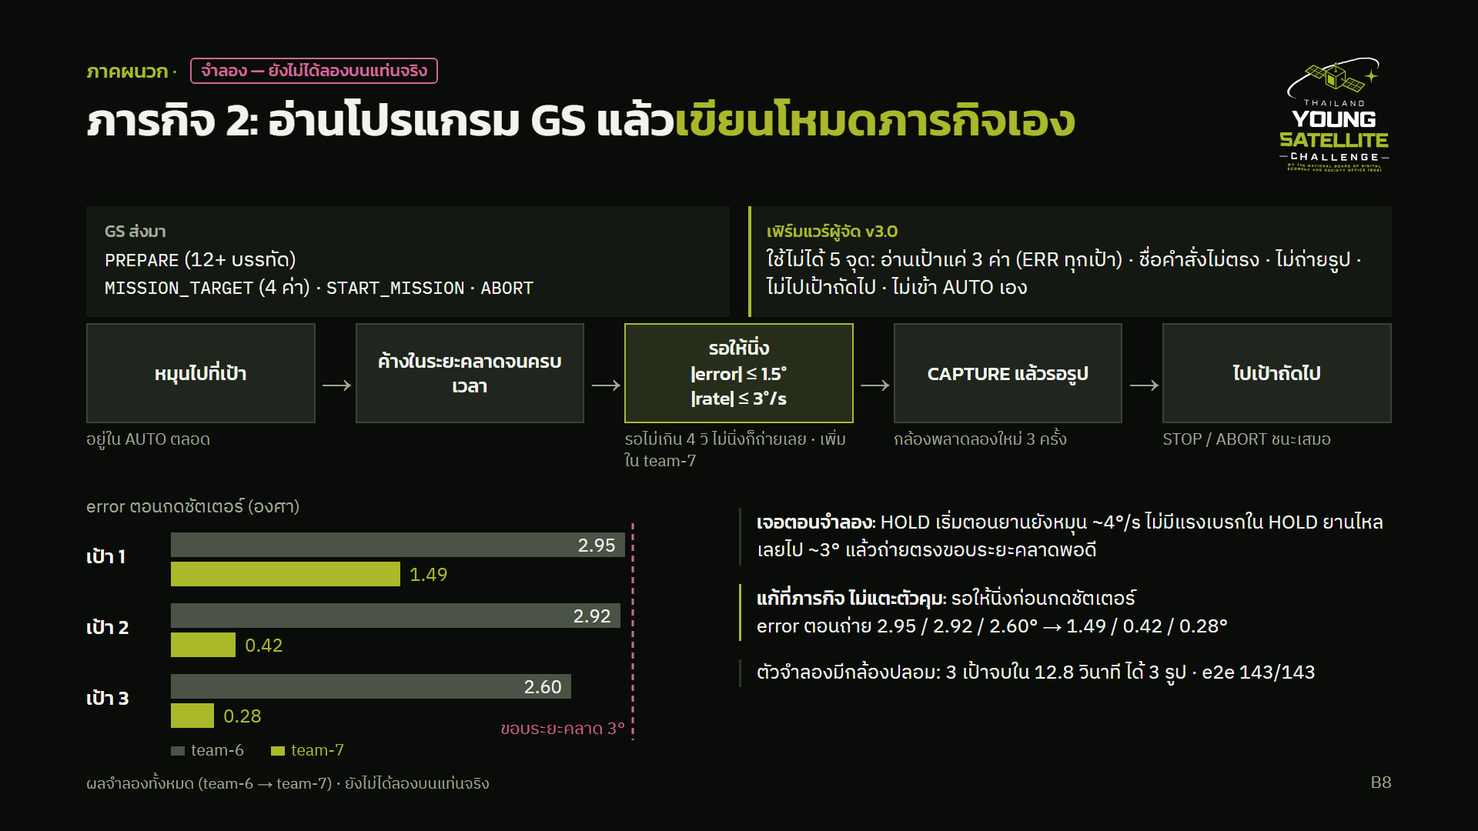
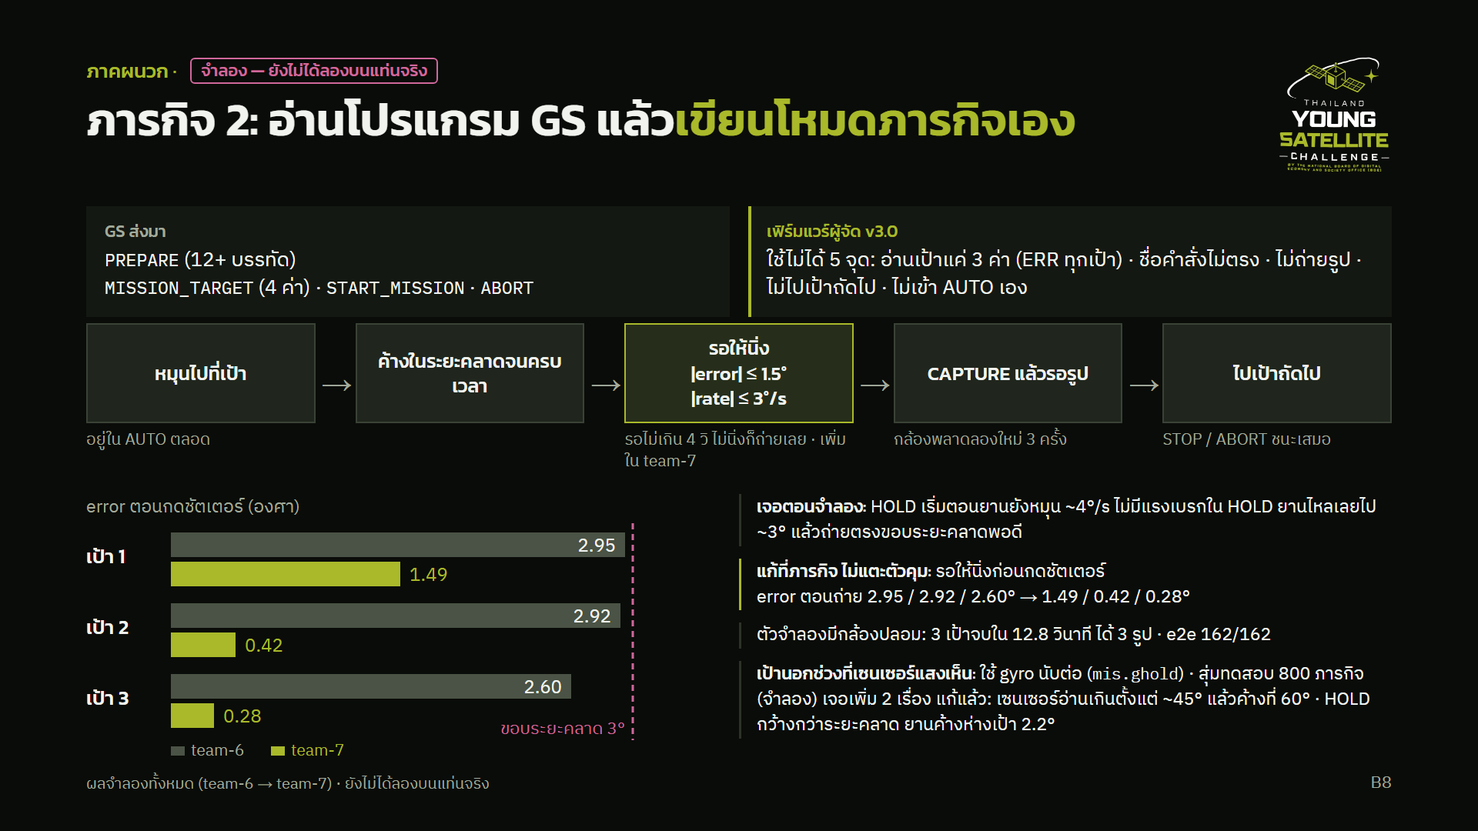
Deck: p4 physics phase 2 corrected (constant wheel speed = body keeps turning, friction slows it on the rig), formula note, p5 e2e 162, B8 adds ghold + 800-mission fuzz line

Changed region(s): [[0.5, 0.5806, 0.9375, 0.8861]]

diff --git a/SunSeek/presentation/deck/physics.html b/SunSeek/presentation/deck/physics.html
@@ -14,8 +14,8 @@
     <div class="eyebrow">ฟิสิกส์ที่ใช้</div>
     <h2>ล้อเร่งไปทางหนึ่ง ยาน<em>หมุนสวนไปอีกทาง</em></h2>
   </div>
-  <div class="eq"><div class="f">I<sub>ยาน</sub> · ω<sub>ยาน</sub> + I<sub>ล้อ</sub> · ω<sub>ล้อ</sub> = ค่าคงที่</div><div class="why">โมเมนตัมเชิงมุมรวมคงที่ ยานเริ่มจากนิ่ง ผลรวมจึงเป็น 0</div></div>
-<svg class="svgfig" style="top:300px" width="1696" height="548" viewBox="0 0 1696 548"><defs><marker id="aL" viewBox="0 0 10 10" refX="5" refY="5" markerWidth="3.6" markerHeight="3.6" orient="auto"><path d="M0,0L10,5L0,10z" fill="#A9B92A"/></marker><marker id="aB" viewBox="0 0 10 10" refX="5" refY="5" markerWidth="3.6" markerHeight="3.6" orient="auto"><path d="M0,0L10,5L0,10z" fill="#4F8FE8"/></marker></defs><g transform="translate(0,0)"><text class="k" x="270" y="32" text-anchor="middle" font-size="34"><tspan fill="#A9B92A">1</tspan>  ล้อเร่งขึ้น</text><g transform="translate(270,138)"><rect x="-75" y="-75" width="150" height="150" fill="none" stroke="#3A4236" stroke-width="2" stroke-dasharray="7 6"/><g transform="rotate(-14)"><rect x="-75" y="-75" width="150" height="150" fill="#20261D" stroke="#4A5345" stroke-width="3"/><rect x="-28" y="-83" width="56" height="12" rx="2" fill="#F1F3EE"/><circle r="42" fill="#141812" stroke="#A9B92A" stroke-width="3"/></g><text class="k" x="0" y="9" text-anchor="middle" font-size="26" style="fill:#A9B92A">ล้อ</text><path d="M21.2,-58.3A62,62 0 1 1 -61.1,10.8" fill="none" stroke="#A9B92A" stroke-width="8" marker-end="url(#aL)"/><path d="M97.7,76.3A124,124 0 0 0 97.7,-76.3" fill="none" stroke="#4F8FE8" stroke-width="8" marker-end="url(#aB)"/><text class="k" x="146" y="9" font-size="26" style="fill:#4F8FE8">ยาน</text></g><text x="270" y="284" text-anchor="middle" font-size="26">ยานหมุนสวนทิศล้อ</text></g><g transform="translate(578,0)"><text class="k" x="270" y="32" text-anchor="middle" font-size="34"><tspan fill="#A9B92A">2</tspan>  ล้อหมุนคงที่</text><g transform="translate(270,138)"><rect x="-75" y="-75" width="150" height="150" fill="none" stroke="#3A4236" stroke-width="2" stroke-dasharray="7 6"/><g transform="rotate(-28)"><rect x="-75" y="-75" width="150" height="150" fill="#20261D" stroke="#4A5345" stroke-width="3"/><rect x="-28" y="-83" width="56" height="12" rx="2" fill="#F1F3EE"/><circle r="42" fill="#141812" stroke="#A9B92A" stroke-width="3"/></g><text class="k" x="0" y="9" text-anchor="middle" font-size="26" style="fill:#A9B92A">ล้อ</text><path d="M21.2,-58.3A62,62 0 1 1 -61.1,10.8" fill="none" stroke="#A9B92A" stroke-width="4" marker-end="url(#aL)"/><text class="k" x="146" y="9" font-size="26" style="fill:#4F8FE8">ยาน นิ่ง</text></g><text x="270" y="284" text-anchor="middle" font-size="26">ไม่มีแรงบิดเพิ่ม ยานหยุดหมุนเอง</text></g><g transform="translate(1156,0)"><text class="k" x="270" y="32" text-anchor="middle" font-size="34"><tspan fill="#A9B92A">3</tspan>  ล้อไหลจนหยุด</text><g transform="translate(270,138)"><rect x="-75" y="-75" width="150" height="150" fill="none" stroke="#3A4236" stroke-width="2" stroke-dasharray="7 6"/><g transform="rotate(-20)"><rect x="-75" y="-75" width="150" height="150" fill="#20261D" stroke="#4A5345" stroke-width="3"/><rect x="-28" y="-83" width="56" height="12" rx="2" fill="#F1F3EE"/><circle r="42" fill="#141812" stroke="#A9B92A" stroke-width="3"/></g><text class="k" x="0" y="9" text-anchor="middle" font-size="26" style="fill:#A9B92A">ล้อ</text><path d="M21.2,-58.3A62,62 0 0 1 47.5,39.9" fill="none" stroke="#A9B92A" stroke-width="4" marker-end="url(#aL)"/><path d="M97.7,-76.3A124,124 0 0 1 97.7,76.3" fill="none" stroke="#4F8FE8" stroke-width="8" marker-end="url(#aB)"/><text class="k" x="146" y="9" font-size="26" style="fill:#4F8FE8">ยาน</text></g><text x="270" y="284" text-anchor="middle" font-size="26">ยานหมุนกลับตามทิศล้อ</text></g><g transform="translate(0,-36)"><line x1="559" y1="346" x2="559" y2="566" stroke="#3A4236" stroke-dasharray="4 6"/><line x1="1137" y1="346" x2="1137" y2="566" stroke="#3A4236" stroke-dasharray="4 6"/><text class="m" x="0" y="352" font-size="22">ความเร็วล้อ</text><line x1="0" y1="400" x2="1696" y2="400" stroke="#3A4236"/><path d="M0,400 L540,340 L1156,340 L1156,340.0 L1176,347.5 L1196,354.0 L1216,359.8 L1236,364.8 L1256,369.2 L1276,373.0 L1296,376.4 L1316,379.4 L1336,381.9 L1356,384.2 L1376,386.2 L1396,387.9 L1416,389.4 L1436,390.7 L1456,391.9 L1476,392.9 L1496,393.8 L1516,394.6 L1536,395.2 L1556,395.8 L1576,396.4 L1596,396.8 L1616,397.2 L1636,397.6 L1656,397.9 L1676,398.1 L1696,398.4" fill="none" stroke="#A9B92A" stroke-width="5" stroke-linejoin="round"/><text class="m" x="0" y="452" font-size="22">แรงบิดที่ยานได้รับ</text><line x1="0" y1="500" x2="1696" y2="500" stroke="#3A4236" stroke-width="2"/><rect x="0" y="500" width="540" height="14" fill="#4F8FE8"/><path d="M1156,500 L1156,449.6 L1176,455.9 L1196,461.4 L1216,466.2 L1236,470.4 L1256,474.1 L1276,477.4 L1296,480.2 L1316,482.7 L1336,484.8 L1356,486.7 L1376,488.4 L1396,489.8 L1416,491.1 L1436,492.2 L1456,493.2 L1476,494.0 L1496,494.8 L1516,495.4 L1536,496.0 L1556,496.5 L1576,496.9 L1596,497.3 L1616,497.7 L1636,497.9 L1656,498.2 L1676,498.4 L1696,498.6 L1696,500 Z" fill="#4F8FE8"/><text class="k" x="270" y="544" text-anchor="middle" font-size="26" style="fill:#4F8FE8">ทวนทิศล้อ</text><text class="k" x="848" y="530" text-anchor="middle" font-size="26" style="fill:#A3AA9C">0</text><text class="k" x="1426" y="544" text-anchor="middle" font-size="26" style="fill:#4F8FE8">ตามทิศล้อ</text><text class="m" x="848" y="572" text-anchor="middle" font-size="22">พื้นที่ของ 1 เท่ากับพื้นที่ของ 3 · โมเมนตัมที่ล้อยืมไปตอนเร่ง ถูกคืนตอนไหลหยุด</text></g></svg>
+  <div class="eq"><div class="f">I<sub>ยาน</sub> · ω<sub>ยาน</sub> + I<sub>ล้อ</sub> · ω<sub>ล้อ</sub> = ค่าคงที่</div><div class="why">ใช้ได้เมื่อไม่มีแรงบิดจากภายนอก (แรงเสียดทานของแท่นนับเป็นแรงภายนอก)<br>ยานเริ่มจากนิ่ง ผลรวมจึงเป็น 0</div></div>
+<svg class="svgfig" style="top:296px" width="1696" height="582" viewBox="0 0 1696 582"><defs><marker id="aL" viewBox="0 0 10 10" refX="5" refY="5" markerWidth="3.6" markerHeight="3.6" orient="auto"><path d="M0,0L10,5L0,10z" fill="#A9B92A"/></marker><marker id="aB" viewBox="0 0 10 10" refX="5" refY="5" markerWidth="3.6" markerHeight="3.6" orient="auto"><path d="M0,0L10,5L0,10z" fill="#4F8FE8"/></marker></defs><g transform="translate(0,0)"><text class="k" x="270" y="32" text-anchor="middle" font-size="34"><tspan fill="#A9B92A">1</tspan>  ล้อเร่งขึ้น</text><g transform="translate(270,138)"><rect x="-75" y="-75" width="150" height="150" fill="none" stroke="#3A4236" stroke-width="2" stroke-dasharray="7 6"/><g transform="rotate(-14)"><rect x="-75" y="-75" width="150" height="150" fill="#20261D" stroke="#4A5345" stroke-width="3"/><rect x="-28" y="-83" width="56" height="12" rx="2" fill="#F1F3EE"/><circle r="42" fill="#141812" stroke="#A9B92A" stroke-width="3"/></g><text class="k" x="0" y="9" text-anchor="middle" font-size="26" style="fill:#A9B92A">ล้อ</text><path d="M21.2,-58.3A62,62 0 1 1 -61.1,10.8" fill="none" stroke="#A9B92A" stroke-width="8" marker-end="url(#aL)"/><path d="M97.7,76.3A124,124 0 0 0 97.7,-76.3" fill="none" stroke="#4F8FE8" stroke-width="8" marker-end="url(#aB)"/><text class="k" x="146" y="9" font-size="26" style="fill:#4F8FE8">ยาน</text></g><text x="270" y="284" text-anchor="middle" font-size="26">ยานหมุนสวนทิศล้อ</text></g><g transform="translate(578,0)"><text class="k" x="270" y="32" text-anchor="middle" font-size="34"><tspan fill="#A9B92A">2</tspan>  ล้อหมุนคงที่</text><g transform="translate(270,138)"><rect x="-75" y="-75" width="150" height="150" fill="none" stroke="#3A4236" stroke-width="2" stroke-dasharray="7 6"/><g transform="rotate(-28)"><rect x="-75" y="-75" width="150" height="150" fill="#20261D" stroke="#4A5345" stroke-width="3"/><rect x="-28" y="-83" width="56" height="12" rx="2" fill="#F1F3EE"/><circle r="42" fill="#141812" stroke="#A9B92A" stroke-width="3"/></g><text class="k" x="0" y="9" text-anchor="middle" font-size="26" style="fill:#A9B92A">ล้อ</text><path d="M21.2,-58.3A62,62 0 1 1 -61.1,10.8" fill="none" stroke="#A9B92A" stroke-width="4" marker-end="url(#aL)"/><path d="M97.7,76.3A124,124 0 0 0 97.7,-76.3" fill="none" stroke="#4F8FE8" stroke-width="5" marker-end="url(#aB)"/><text class="k" x="146" y="9" font-size="26" style="fill:#4F8FE8">ยาน หมุนต่อ</text></g><text x="270" y="284" text-anchor="middle" font-size="26">ไม่มีแรงบิด ยานหมุนต่อด้วยความเร็วเดิม</text><text class="m" x="270" y="314" text-anchor="middle" font-size="22">บนแท่นจริง แรงเสียดทานค่อย ๆ หน่วงให้ช้าลง</text></g><g transform="translate(1156,0)"><text class="k" x="270" y="32" text-anchor="middle" font-size="34"><tspan fill="#A9B92A">3</tspan>  ล้อไหลจนหยุด</text><g transform="translate(270,138)"><rect x="-75" y="-75" width="150" height="150" fill="none" stroke="#3A4236" stroke-width="2" stroke-dasharray="7 6"/><g transform="rotate(-22)"><rect x="-75" y="-75" width="150" height="150" fill="#20261D" stroke="#4A5345" stroke-width="3"/><rect x="-28" y="-83" width="56" height="12" rx="2" fill="#F1F3EE"/><circle r="42" fill="#141812" stroke="#A9B92A" stroke-width="3"/></g><text class="k" x="0" y="9" text-anchor="middle" font-size="26" style="fill:#A9B92A">ล้อ</text><path d="M21.2,-58.3A62,62 0 0 1 47.5,39.9" fill="none" stroke="#A9B92A" stroke-width="4" marker-end="url(#aL)"/><path d="M97.7,-76.3A124,124 0 0 1 97.7,76.3" fill="none" stroke="#4F8FE8" stroke-width="8" marker-end="url(#aB)"/><text class="k" x="146" y="9" font-size="26" style="fill:#4F8FE8">ยาน</text></g><text x="270" y="284" text-anchor="middle" font-size="26">ล้อคืนโมเมนตัม ยานถูกดันตามทิศล้อ</text><text class="m" x="270" y="314" text-anchor="middle" font-size="22">บนแท่น ยานที่หยุดแล้วจึงหมุนกลับ</text></g><g transform="translate(0,-4)"><line x1="559" y1="346" x2="559" y2="566" stroke="#3A4236" stroke-dasharray="4 6"/><line x1="1137" y1="346" x2="1137" y2="566" stroke="#3A4236" stroke-dasharray="4 6"/><text class="m" x="0" y="352" font-size="22">ความเร็วล้อ</text><line x1="0" y1="400" x2="1696" y2="400" stroke="#3A4236"/><path d="M0,400 L540,340 L1156,340 L1156,340.0 L1176,347.5 L1196,354.0 L1216,359.8 L1236,364.8 L1256,369.2 L1276,373.0 L1296,376.4 L1316,379.4 L1336,381.9 L1356,384.2 L1376,386.2 L1396,387.9 L1416,389.4 L1436,390.7 L1456,391.9 L1476,392.9 L1496,393.8 L1516,394.6 L1536,395.2 L1556,395.8 L1576,396.4 L1596,396.8 L1616,397.2 L1636,397.6 L1656,397.9 L1676,398.1 L1696,398.4" fill="none" stroke="#A9B92A" stroke-width="5" stroke-linejoin="round"/><text class="m" x="0" y="452" font-size="22">แรงบิดที่ยานได้รับ</text><line x1="0" y1="500" x2="1696" y2="500" stroke="#3A4236" stroke-width="2"/><rect x="0" y="500" width="540" height="14" fill="#4F8FE8"/><path d="M1156,500 L1156,449.6 L1176,455.9 L1196,461.4 L1216,466.2 L1236,470.4 L1256,474.1 L1276,477.4 L1296,480.2 L1316,482.7 L1336,484.8 L1356,486.7 L1376,488.4 L1396,489.8 L1416,491.1 L1436,492.2 L1456,493.2 L1476,494.0 L1496,494.8 L1516,495.4 L1536,496.0 L1556,496.5 L1576,496.9 L1596,497.3 L1616,497.7 L1636,497.9 L1656,498.2 L1676,498.4 L1696,498.6 L1696,500 Z" fill="#4F8FE8"/><text class="k" x="270" y="544" text-anchor="middle" font-size="26" style="fill:#4F8FE8">ทวนทิศล้อ</text><text class="k" x="848" y="530" text-anchor="middle" font-size="26" style="fill:#A3AA9C">0</text><text class="k" x="1426" y="544" text-anchor="middle" font-size="26" style="fill:#4F8FE8">ตามทิศล้อ</text><text class="m" x="848" y="572" text-anchor="middle" font-size="22">พื้นที่ของ 1 เท่ากับพื้นที่ของ 3 · โมเมนตัมที่ล้อยืมไปตอนเร่ง ถูกคืนตอนไหลหยุด</text></g></svg>
   <div class="chips">
     <div><b>±10 %</b>คำสั่งที่ล้อเริ่มหมุน</div>
     <div><b>20–80 %</b>ความเร็วเกือบเป็นเส้นตรงตามคำสั่ง</div>

diff --git a/SunSeek/presentation/deck/make_slides.js b/SunSeek/presentation/deck/make_slides.js
@@ -58,11 +58,11 @@ const callouts = (() => {
 // ---------- p4 physics diagram ----------
 const physicsSvg = (() => {
   const panels = [
-    { ox: 0, n: '1', title: 'ล้อเร่งขึ้น', rot: -14, w: [-70, 170, 8], b: [38, -38, 8], bl: 'ยาน', sub: 'ยานหมุนสวนทิศล้อ' },
-    { ox: 578, n: '2', title: 'ล้อหมุนคงที่', rot: -28, w: [-70, 170, 4], b: null, bl: 'ยาน นิ่ง', sub: 'ไม่มีแรงบิดเพิ่ม ยานหยุดหมุนเอง' },
-    { ox: 1156, n: '3', title: 'ล้อไหลจนหยุด', rot: -20, w: [-70, 40, 4], b: [-38, 38, 8], bl: 'ยาน', sub: 'ยานหมุนกลับตามทิศล้อ' },
+    { ox: 0, n: '1', title: 'ล้อเร่งขึ้น', rot: -14, w: [-70, 170, 8], b: [38, -38, 8], bl: 'ยาน', sub: ['ยานหมุนสวนทิศล้อ'] },
+    { ox: 578, n: '2', title: 'ล้อหมุนคงที่', rot: -28, w: [-70, 170, 4], b: [38, -38, 5], bl: 'ยาน หมุนต่อ', sub: ['ไม่มีแรงบิด ยานหมุนต่อด้วยความเร็วเดิม', 'บนแท่นจริง แรงเสียดทานค่อย ๆ หน่วงให้ช้าลง'] },
+    { ox: 1156, n: '3', title: 'ล้อไหลจนหยุด', rot: -22, w: [-70, 40, 4], b: [-38, 38, 8], bl: 'ยาน', sub: ['ล้อคืนโมเมนตัม ยานถูกดันตามทิศล้อ', 'บนแท่น ยานที่หยุดแล้วจึงหมุนกลับ'] },
   ];
-  let s = `<svg class="svgfig" style="top:300px" width="1696" height="548" viewBox="0 0 1696 548"><defs>${marker('aL', LIME)}${marker('aB', BLUE)}</defs>`;
+  let s = `<svg class="svgfig" style="top:296px" width="1696" height="582" viewBox="0 0 1696 582"><defs>${marker('aL', LIME)}${marker('aB', BLUE)}</defs>`;
   for (const p of panels) {
     s += `<g transform="translate(${p.ox},0)">`;
     s += `<text class="k" x="270" y="32" text-anchor="middle" font-size="34"><tspan fill="${LIME}">${p.n}</tspan>  ${p.title}</text>`;
@@ -76,10 +76,12 @@ const physicsSvg = (() => {
     if (p.b) s += `<path d="${arc(0, 0, 124, p.b[0], p.b[1])}" fill="none" stroke="${BLUE}" stroke-width="${p.b[2]}" marker-end="url(#aB)"/>`;
     s += `<text class="k" x="146" y="9" font-size="26" style="fill:${BLUE}">${p.bl}</text>`;
     s += `</g>`;
-    s += `<text x="270" y="284" text-anchor="middle" font-size="26">${p.sub}</text></g>`;
+    s += `<text x="270" y="284" text-anchor="middle" font-size="26">${p.sub[0]}</text>`;
+    if (p.sub[1]) s += `<text class="m" x="270" y="314" text-anchor="middle" font-size="22">${p.sub[1]}</text>`;
+    s += `</g>`;
   }
   // wheel speed + torque on the body, same time axis as the three panels (schematic, not measured)
-  s += `<g transform="translate(0,-36)">`;
+  s += `<g transform="translate(0,-4)">`;
   const dec = []; for (let x = 1156; x <= 1696; x += 20) dec.push(`${x},${(400 - 60 * Math.exp(-(x - 1156) / 150)).toFixed(1)}`);
   s += `<line x1="559" y1="346" x2="559" y2="566" stroke="${LINE}" stroke-dasharray="4 6"/><line x1="1137" y1="346" x2="1137" y2="566" stroke="${LINE}" stroke-dasharray="4 6"/>`;
   s += `<text class="m" x="0" y="352" font-size="22">ความเร็วล้อ</text>`;
@@ -174,7 +176,7 @@ ${callouts}
     <div class="eyebrow">ฟิสิกส์ที่ใช้</div>
     <h2>ล้อเร่งไปทางหนึ่ง ยาน<em>หมุนสวนไปอีกทาง</em></h2>
   </div>
-  <div class="eq"><div class="f">I<sub>ยาน</sub> · ω<sub>ยาน</sub> + I<sub>ล้อ</sub> · ω<sub>ล้อ</sub> = ค่าคงที่</div><div class="why">โมเมนตัมเชิงมุมรวมคงที่ ยานเริ่มจากนิ่ง ผลรวมจึงเป็น 0</div></div>
+  <div class="eq"><div class="f">I<sub>ยาน</sub> · ω<sub>ยาน</sub> + I<sub>ล้อ</sub> · ω<sub>ล้อ</sub> = ค่าคงที่</div><div class="why">ใช้ได้เมื่อไม่มีแรงบิดจากภายนอก (แรงเสียดทานของแท่นนับเป็นแรงภายนอก)<br>ยานเริ่มจากนิ่ง ผลรวมจึงเป็น 0</div></div>
 ${physicsSvg}
   <div class="chips">
     <div><b>±10 %</b>คำสั่งที่ล้อเริ่มหมุน</div>
@@ -198,7 +200,7 @@ ${physicsSvg}
   </div>
   <div class="tools">
     <div><b>เว็บ NasaSat Lab</b>คาลิเบรต · จูน · ดึงกล่องดำ ผ่านบลูทูธจากเบราว์เซอร์</div>
-    <div><b>ตัวจำลองบนคอม</b>รันโค้ดเฟิร์มแวร์ตัวจริง e2e 143 เทสต์ + สุ่มประวัติการหมุน</div>
+    <div><b>ตัวจำลองบนคอม</b>รันโค้ดเฟิร์มแวร์ตัวจริง e2e 162 เทสต์ + สุ่มประวัติการหมุน</div>
   </div>
   <div class="source">แก้และเพิ่มรวม 32 เรื่อง (ภาคผนวก B2) · ยังสั่งผ่าน GS ของผู้จัดได้เหมือนเดิม</div>`],
 
@@ -471,7 +473,8 @@ ${capSvg}
   <div class="mnotes">
     <p><b>เจอตอนจำลอง:</b> HOLD เริ่มตอนยานยังหมุน ~4°/s ไม่มีแรงเบรกใน HOLD ยานไหลเลยไป ~3° แล้วถ่ายตรงขอบระยะคลาดพอดี</p>
     <p class="key"><b>แก้ที่ภารกิจ ไม่แตะตัวคุม:</b> รอให้นิ่งก่อนกดชัตเตอร์<br>error ตอนถ่าย 2.95 / 2.92 / 2.60° → 1.49 / 0.42 / 0.28°</p>
-    <p>ตัวจำลองมีกล้องปลอม: 3 เป้าจบใน 12.8 วินาที ได้ 3 รูป · e2e 143/143</p>
+    <p>ตัวจำลองมีกล้องปลอม: 3 เป้าจบใน 12.8 วินาที ได้ 3 รูป · e2e 162/162</p>
+    <p><b>เป้านอกช่วงที่เซนเซอร์แสงเห็น:</b> ใช้ gyro นับต่อ (<code class="mono">mis.ghold</code>) · สุ่มทดสอบ 800 ภารกิจ (จำลอง) เจอเพิ่ม 2 เรื่อง แก้แล้ว: เซนเซอร์อ่านเกินตั้งแต่ ~45° แล้วค้างที่ 60° · HOLD กว้างกว่าระยะคลาด ยานค้างห่างเป้า 2.2°</p>
   </div>
   <div class="source">ผลจำลองทั้งหมด (team-6 → team-7) · ยังไม่ได้ลองบนแท่นจริง</div>`],
 ];

diff --git a/SunSeek/presentation/deck/base.css b/SunSeek/presentation/deck/base.css
@@ -92,11 +92,11 @@ code.mono, .mono { font-family: 'IBM Plex Mono', monospace; font-size: .9em; }
 .absent b { color: var(--text); font-weight: 500; }
 
 /* p4 physics */
-.eq { position: absolute; left: 112px; top: 214px; display: flex; align-items: baseline; gap: 32px; }
+.eq { position: absolute; left: 112px; top: 212px; display: flex; align-items: center; gap: 32px; }
 .eq .f { padding: 2px 22px 4px; border: 2px solid var(--lime); font-size: 34px; }
 .eq .f sub { font-size: .62em; }
-.eq .why { font-size: 24px; color: var(--muted); }
-.chips { position: absolute; left: 112px; top: 868px; width: 1696px; display: grid; grid-template-columns: repeat(4, 1fr); gap: 20px; }
+.eq .why { font-size: 23px; line-height: 1.4; color: var(--muted); }
+.chips { position: absolute; left: 112px; top: 886px; width: 1696px; display: grid; grid-template-columns: repeat(4, 1fr); gap: 20px; }
 .chips div { padding: 12px 20px; background: var(--surface); font-size: 23px; line-height: 1.35; color: var(--muted); }
 .chips b { display: block; font-family: var(--head); font-weight: 500; font-size: 30px; color: var(--text); }
 
@@ -157,8 +157,8 @@ code.mono, .mono { font-family: 'IBM Plex Mono', monospace; font-size: .9em; }
 .flow .stp small { display: block; margin-top: 8px; font-size: 21px; line-height: 1.35; color: var(--muted); }
 .flow .box.new { border-color: var(--lime); background: #262E1B; }
 .res { position: absolute; left: 112px; top: 630px; }
-.mnotes { position: absolute; left: 960px; top: 660px; width: 848px; display: grid; gap: 24px; }
-.mnotes p { font-size: 25px; line-height: 1.45; padding-left: 20px; border-left: 3px solid var(--line); }
+.mnotes { position: absolute; left: 960px; top: 642px; width: 848px; display: grid; gap: 16px; }
+.mnotes p { font-size: 23px; line-height: 1.45; padding-left: 20px; border-left: 3px solid var(--line); }
 .mnotes b { font-family: var(--head); font-weight: 500; }
 .mnotes .key { border-left-color: var(--lime); }
 

diff --git a/SunSeek/presentation/deck/mission2.html b/SunSeek/presentation/deck/mission2.html
@@ -29,7 +29,8 @@
   <div class="mnotes">
     <p><b>เจอตอนจำลอง:</b> HOLD เริ่มตอนยานยังหมุน ~4°/s ไม่มีแรงเบรกใน HOLD ยานไหลเลยไป ~3° แล้วถ่ายตรงขอบระยะคลาดพอดี</p>
     <p class="key"><b>แก้ที่ภารกิจ ไม่แตะตัวคุม:</b> รอให้นิ่งก่อนกดชัตเตอร์<br>error ตอนถ่าย 2.95 / 2.92 / 2.60° → 1.49 / 0.42 / 0.28°</p>
-    <p>ตัวจำลองมีกล้องปลอม: 3 เป้าจบใน 12.8 วินาที ได้ 3 รูป · e2e 143/143</p>
+    <p>ตัวจำลองมีกล้องปลอม: 3 เป้าจบใน 12.8 วินาที ได้ 3 รูป · e2e 162/162</p>
+    <p><b>เป้านอกช่วงที่เซนเซอร์แสงเห็น:</b> ใช้ gyro นับต่อ (<code class="mono">mis.ghold</code>) · สุ่มทดสอบ 800 ภารกิจ (จำลอง) เจอเพิ่ม 2 เรื่อง แก้แล้ว: เซนเซอร์อ่านเกินตั้งแต่ ~45° แล้วค้างที่ 60° · HOLD กว้างกว่าระยะคลาด ยานค้างห่างเป้า 2.2°</p>
   </div>
   <div class="source">ผลจำลองทั้งหมด (team-6 → team-7) · ยังไม่ได้ลองบนแท่นจริง</div>
   <div class="page">B8</div>

diff --git a/SunSeek/presentation/deck/ours.html b/SunSeek/presentation/deck/ours.html
@@ -24,7 +24,7 @@
   </div>
   <div class="tools">
     <div><b>เว็บ NasaSat Lab</b>คาลิเบรต · จูน · ดึงกล่องดำ ผ่านบลูทูธจากเบราว์เซอร์</div>
-    <div><b>ตัวจำลองบนคอม</b>รันโค้ดเฟิร์มแวร์ตัวจริง e2e 143 เทสต์ + สุ่มประวัติการหมุน</div>
+    <div><b>ตัวจำลองบนคอม</b>รันโค้ดเฟิร์มแวร์ตัวจริง e2e 162 เทสต์ + สุ่มประวัติการหมุน</div>
   </div>
   <div class="source">แก้และเพิ่มรวม 32 เรื่อง (ภาคผนวก B2) · ยังสั่งผ่าน GS ของผู้จัดได้เหมือนเดิม</div>
   <div class="page">05</div>
